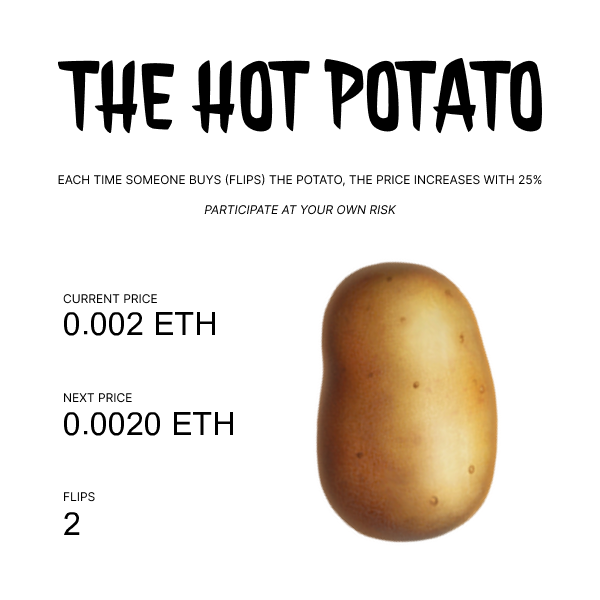
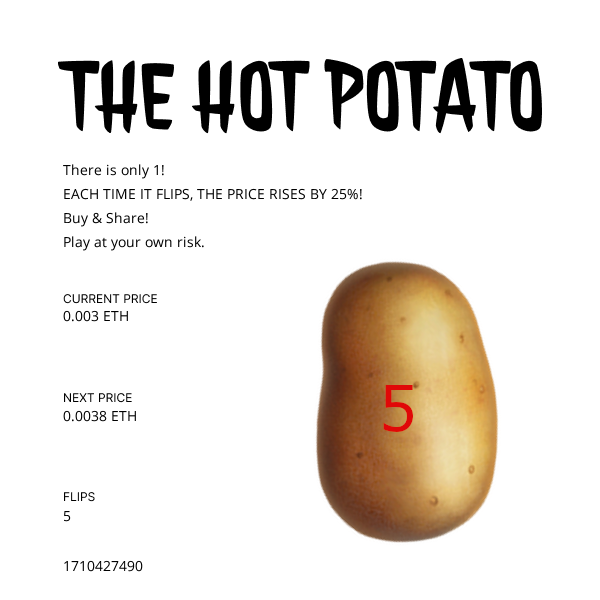
multiple images

diff --git a/hot-potato-image-server/server.js b/hot-potato-image-server/server.js
@@ -53,8 +53,16 @@ app.get('/get-potato', async (req, res) => {
             await contract.read.FLIP_COUNT()
         ]);
 
-        const image = await Jimp.read('./potato_unedited.png');
-        const font = await Jimp.loadFont(Jimp.FONT_SANS_32_BLACK);
+        var imageIndex = parseInt(parseInt(flipCount)/5+""); // step every 5
+        if (imageIndex>9)imageIndex=9; // 9 is the last image
+        const image = await Jimp.read(`./potato-${imageIndex}.png`);
+
+        const font = await Jimp.loadFont(Jimp.FONT_SANS_14_BLACK);
+
+        image.print(font, 63, 160, "There is only 1!")
+        image.print(font, 63, 184, "EACH TIME IT FLIPS, THE PRICE RISES BY 25%!");
+        image.print(font, 63, 208, "Buy & Share!");
+        image.print(font, 63, 232, "Play at your own risk.");
 
         const currentPriceText = parseFloat(formatEther(currentPrice)).toFixed(3) + " ETH"
         const nextPriceText = parseFloat(formatEther(nextPrice)).toFixed(4) + " ETH"

diff --git a/app/page.tsx b/app/page.tsx
@@ -43,6 +43,7 @@ export default async function Page() {
 
   return (
     <>
+    <head>
       <meta name="og:image" content={`${NEXT_PUBLIC_URL}/potato-base.png`} />
       <meta name="fc:frame" content="vNext" />
       <meta name="fc:frame:image" content={`https://image.hot-potato.lol/get-potato?${timestamp}`} />
@@ -60,6 +61,10 @@ export default async function Page() {
       <meta name="fc:frame:button:1" content="BUY NOW!" />
       <meta name="fc:frame:button:1:action" content="tx" />
       <meta name="fc:frame:button:1:target" content={`${NEXT_PUBLIC_URL}/api/potato`} />
+    </head>
+    <body>
+      <img src={`https://image.hot-potato.lol/get-potato?${timestamp}`}/>
+    </body>
     </>
   );
 }
